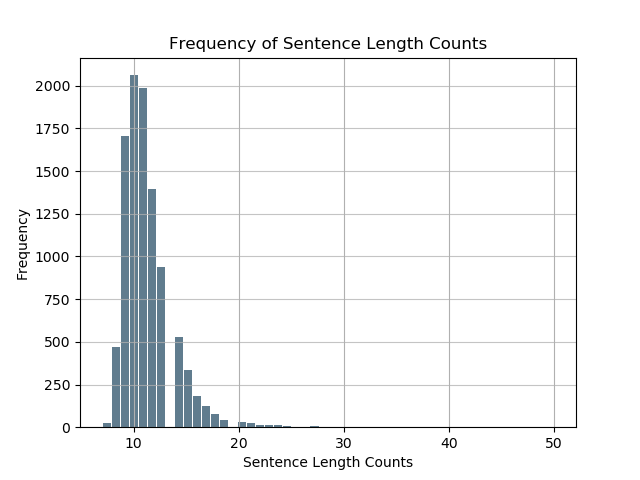
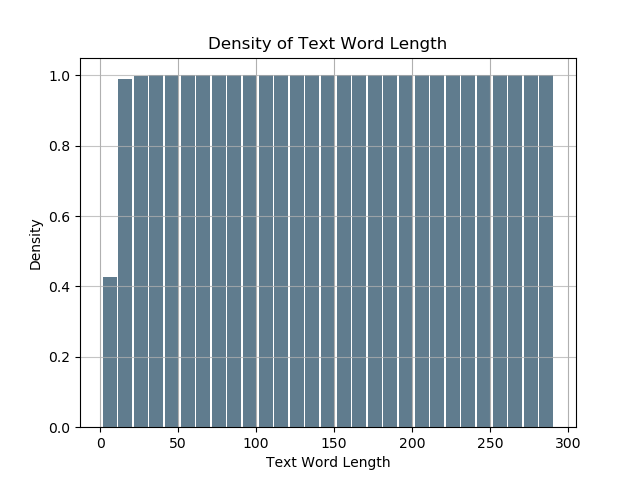
Updates

diff --git a/analysis_script.py b/analysis_script.py
@@ -9,7 +9,7 @@ import os
 from pdb import set_trace as breakpoint
 import spacy
 import json
-
+import ast
 #from matplotlib.
 class TextDataset:
     def __init__(self, path_to_data, dataset_name):
@@ -37,6 +37,15 @@ class TextDataset:
                 df['text']=text
                 df['text']=df['text'].apply(lambda x : wordpunct_tokenize(x))
                 return df.sample(10000)
+        elif self.dataset_name == 'fb':
+            with open(self.path_to_data) as f:
+                texts=[]
+                for line in f:
+                    texts.append(ast.literal_eval(line)['text'])
+                df = pd.DataFrame()
+                df['text']=texts
+                df['text']=df['text'].apply(lambda x : wordpunct_tokenize(x))           
+                return df
             
         return None
     
@@ -50,7 +59,7 @@ class TextDataset:
     def get_average_sentence_length(self, args):
         # save histogram under visualizations folder
         self.df['sentence_counts'] = self.df['text'].apply(lambda x : len(x))
-        plt=plot_histogram(self.df['sentence_counts'], bins=self.df['sentence_counts'].max())
+        plt=plot_histogram(self.df['sentence_counts'], bins=list(range(1,300, 10)),x_label='Text Word Length', y_label='Density')
         
         os.makedirs(os.path.join('visualizations', self.dataset_name), exist_ok=True)
         plt.savefig(os.path.join('visualizations', self.dataset_name, 'sentence_count.png'))
@@ -80,7 +89,7 @@ class TextDataset:
             all_entities.extend(ner)
         obj=namedtuple(typename='test', field_names=['index', 'values'])
         counter_all_entities=zip(*Counter(all_entities).most_common())
-        breakpoint()
+        #breakpoint()
         obj.index, obj.values = (next(counter_all_entities), next(counter_all_entities))
         # normalize counts
         total = sum(Counter(all_entities).values(), 0.0)
@@ -110,7 +119,7 @@ if __name__ == "__main__":
     
     # get average sentence length
     print("Average sentence length: ", dataset.get_average_sentence_length(args))
-    
+    exit(1)
     print("Average parts of speech per meme text: ", dataset.mean_pos.sort_values(ascending=False))
     dataset.get_pos_hist(args)
     

diff --git a/utils.py b/utils.py
@@ -41,7 +41,7 @@ def plot_histogram(pd_series, bins='auto', x_label='Sentence Length Counts', y_l
         plt.bar(pd_series.index[:10], pd_series.values[:10], color='#607c8e') # take first ten
     else:
         pd_series.plot.hist(grid=True, bins=bins, rwidth=0.9,
-                   color='#607c8e')
+                   color='#607c8e', density=True, cumulative=True)
     plt.xlabel(x_label)
     plt.ylabel(y_label)
     plt.title(title)
